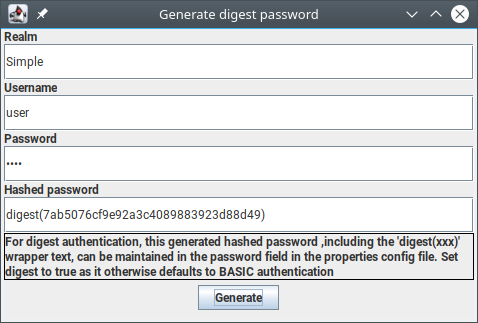
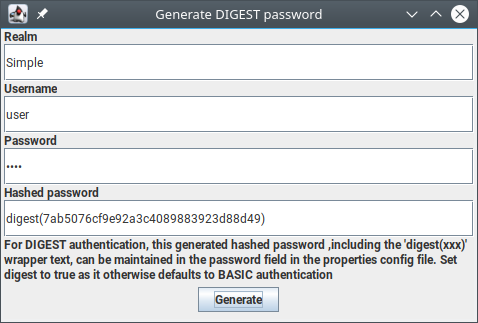
sync

diff --git a/src/main/java/io/github/ag88/embtomcatwebdav/DigestPWGenDlg.java b/src/main/java/io/github/ag88/embtomcatwebdav/DigestPWGenDlg.java
@@ -65,8 +65,6 @@ public class DigestPWGenDlg extends JDialog implements ActionListener {
 		sb.append("in the password field in the properties config file. ");
 		sb.append("Set digest to true as it otherwise defaults to BASIC authentication</html>");				
 		JLabel l = new JLabel(sb.toString());
-		//l.setSize(400, 80);
-		l.setBorder(new LineBorder(Color.BLACK));
 		addleft(l);
 		
 		JPanel p = new JPanel();
